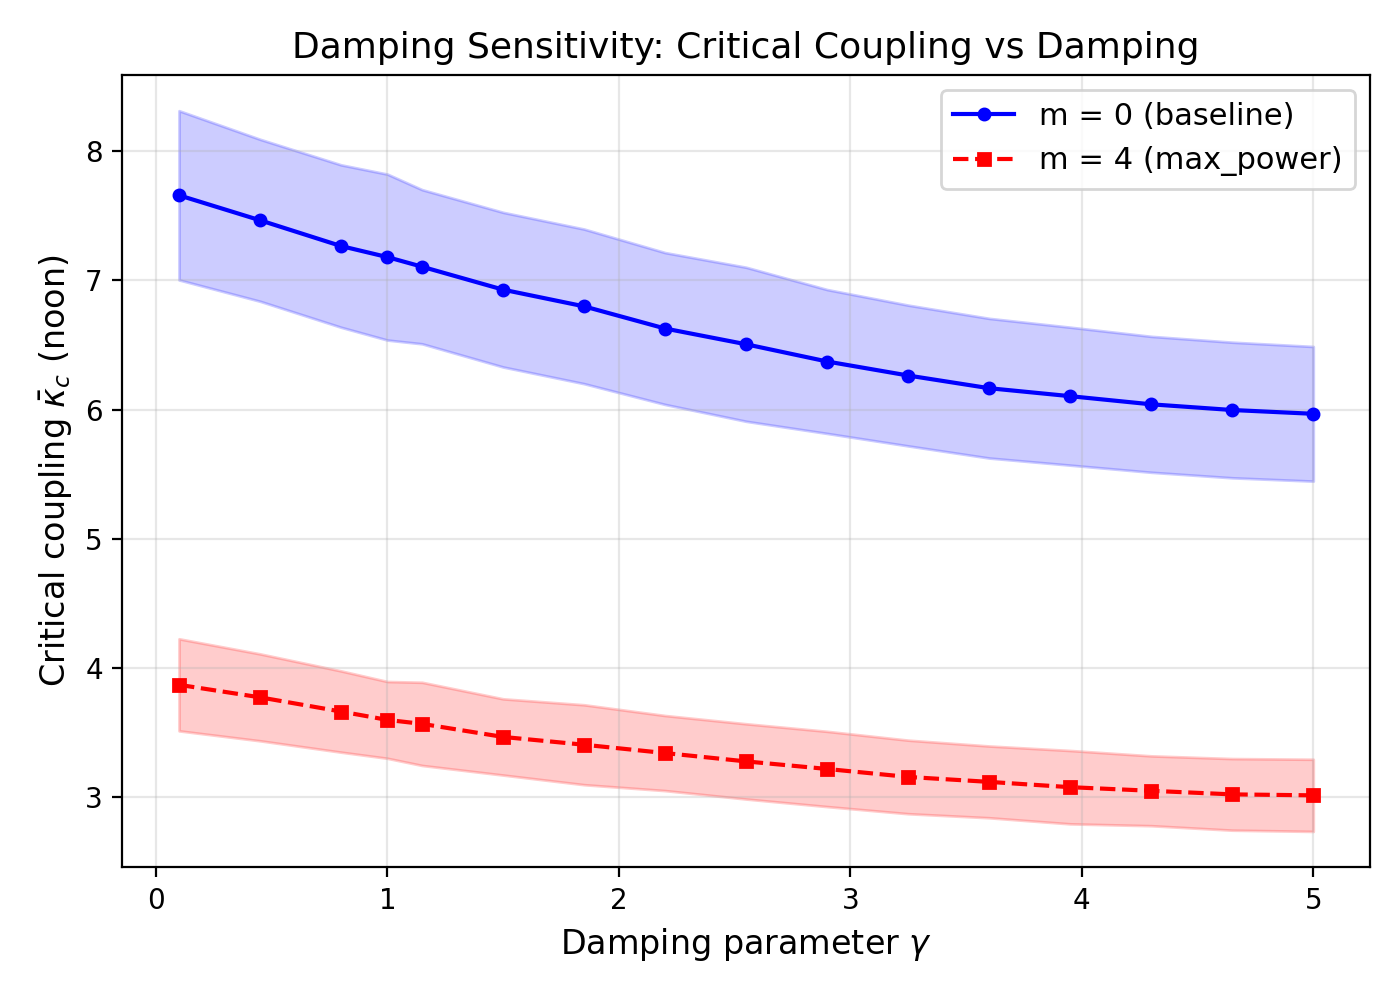
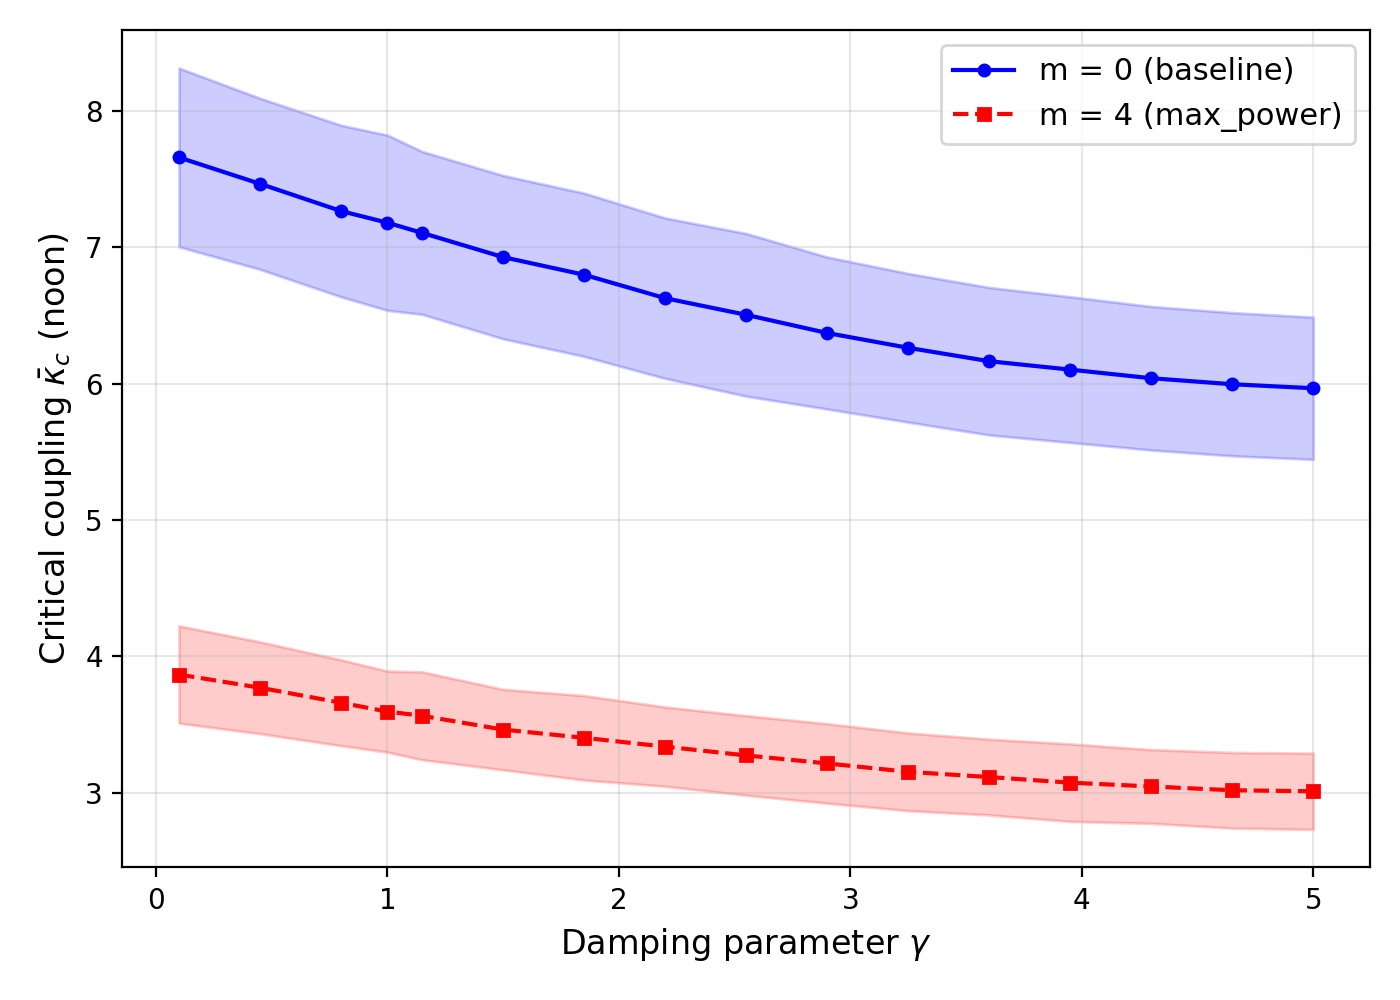
style: update figure titles for improved clarity and visualization

diff --git a/sq5_data/run_sq5a.py b/sq5_data/run_sq5a.py
@@ -338,7 +338,6 @@ def plot_results(output_path: str, figures_dir: str):
     )
     ax.set_xlabel(r"Damping parameter $\gamma$", fontsize=12)
     ax.set_ylabel(r"Critical coupling $\bar{\kappa}_c$ (noon)", fontsize=12)
-    ax.set_title("Damping Sensitivity: Critical Coupling vs Damping", fontsize=13)
     ax.legend(fontsize=11)
     ax.grid(True, alpha=0.3)
     fig.tight_layout()
@@ -361,7 +360,6 @@ def plot_results(output_path: str, figures_dir: str):
     ax.axhline(0, color="gray", linestyle="--", linewidth=0.8)
     ax.set_xlabel(r"Damping parameter $\gamma$", fontsize=12)
     ax.set_ylabel(r"$\Delta\bar{\kappa}_c = \bar{\kappa}_c(m{=}0) - \bar{\kappa}_c(m{=}4)$", fontsize=12)
-    ax.set_title("Absolute Reduction from Edge Addition (m=4)", fontsize=13)
     ax.legend(fontsize=11)
     ax.grid(True, alpha=0.3)
     fig.tight_layout()
@@ -383,7 +381,6 @@ def plot_results(output_path: str, figures_dir: str):
     ax.axhline(0, color="gray", linestyle="--", linewidth=0.8)
     ax.set_xlabel(r"Damping parameter $\gamma$", fontsize=12)
     ax.set_ylabel("Relative reduction (%)", fontsize=12)
-    ax.set_title("Relative Effectiveness of Edge Addition vs Damping", fontsize=13)
     ax.legend(fontsize=11)
     ax.grid(True, alpha=0.3)
     fig.tight_layout()
